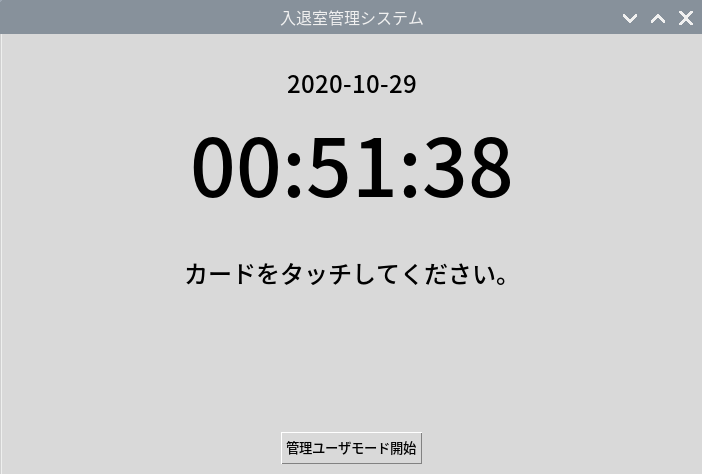
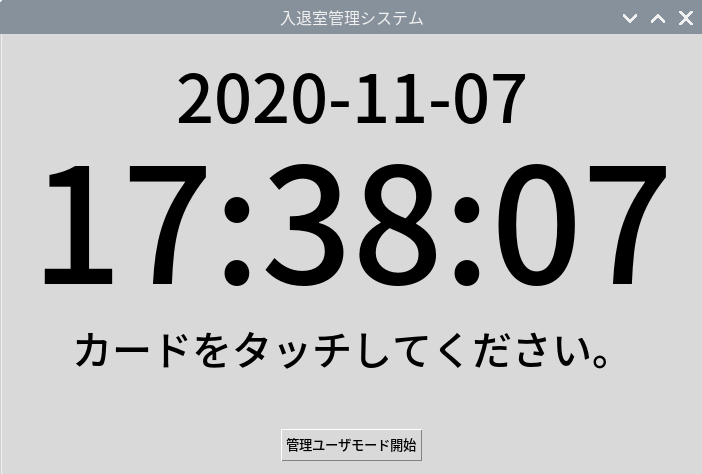
通常ユーザモードの文字サイズと位置を調整

diff --git a/view_normal.py b/view_normal.py
@@ -36,16 +36,22 @@ class ViewNormal(ttk.Frame):
         ttk.Frame.__init__(self, master)
         self.label_day = ttk.Label(self,
                                    text='',
+                                   #background='red',
+                                   padding=(0,-20,0,-20),
                                    font=('',50))
-        self.label_day.pack(pady=(10,0))
+        self.label_day.pack(pady=(30,0))
 
         self.label_tim = ttk.Label(self,
                                    text='',
-                                   font=('', 100))
+                                   #background='red',
+                                   padding=(0,-30,0,-30),
+                                   font=('', 120))
         self.label_tim.pack()
 
         self.label_msg = ttk.Label(self,
                                    text='',
+                                   #background='red',
+                                   padding=0,
                                    font=('',30))
         self.label_msg.pack(pady=10)
 
@@ -53,7 +59,7 @@ class ViewNormal(ttk.Frame):
         button = ttk.Button(self,
                             text="管理ユーザモード開始",
                             command=lambda: master.switch_view(view_admin.ViewAdmin))
-        button.pack(pady=(10,0))
+        button.pack(pady=(40,0))
 
     ############################################################
     # 周期処理
